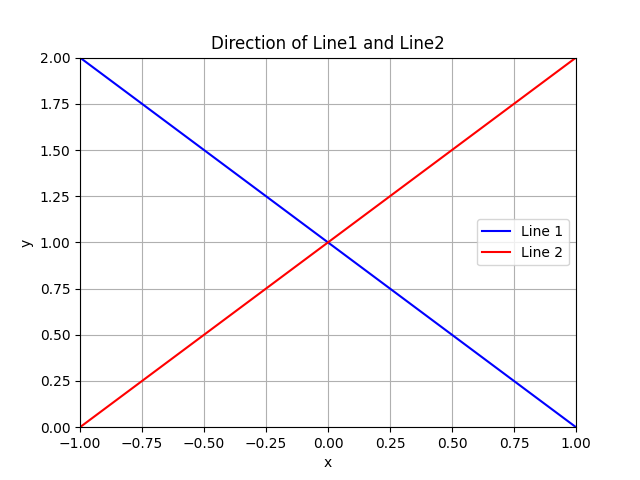
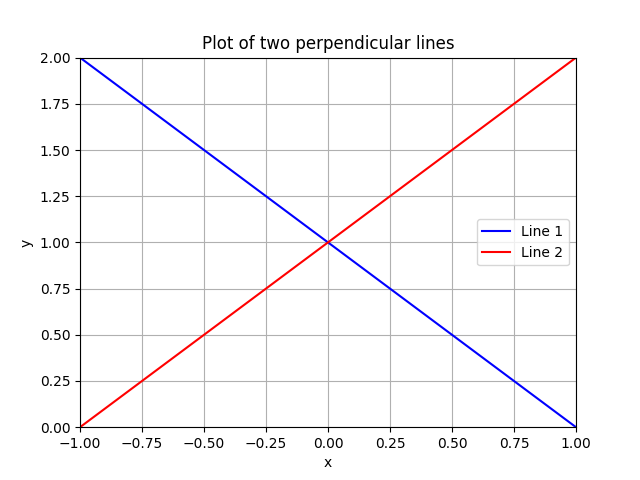
EE1030

Changed region(s): [[0.3125, 0.0625, 0.7188, 0.125]]

diff --git a/Matgeo/problem-5/main.tex b/Matgeo/problem-5/main.tex
@@ -103,7 +103,7 @@ For lines to be perpendicular:
  \begin{figure}[h!]
    \centering
    \includegraphics[width=0.7\linewidth]{figs/fig.png}
-   \caption{Plot of the line}
+   \caption{Plot of two perpendicular lines}
    \label{stemplot}
 \end{figure}
 \end{document}

diff --git a/Matgeo/problem-5/codes/perp.py b/Matgeo/problem-5/codes/perp.py
@@ -31,7 +31,7 @@ plt.ylim(0, 2)
 # Add labels, title, and grid
 plt.xlabel("x")
 plt.ylabel("y")
-plt.title("Direction of Line1 and Line2")
+plt.title("Plot of two perpendicular lines")
 plt.grid(True)
 plt.legend()
 
